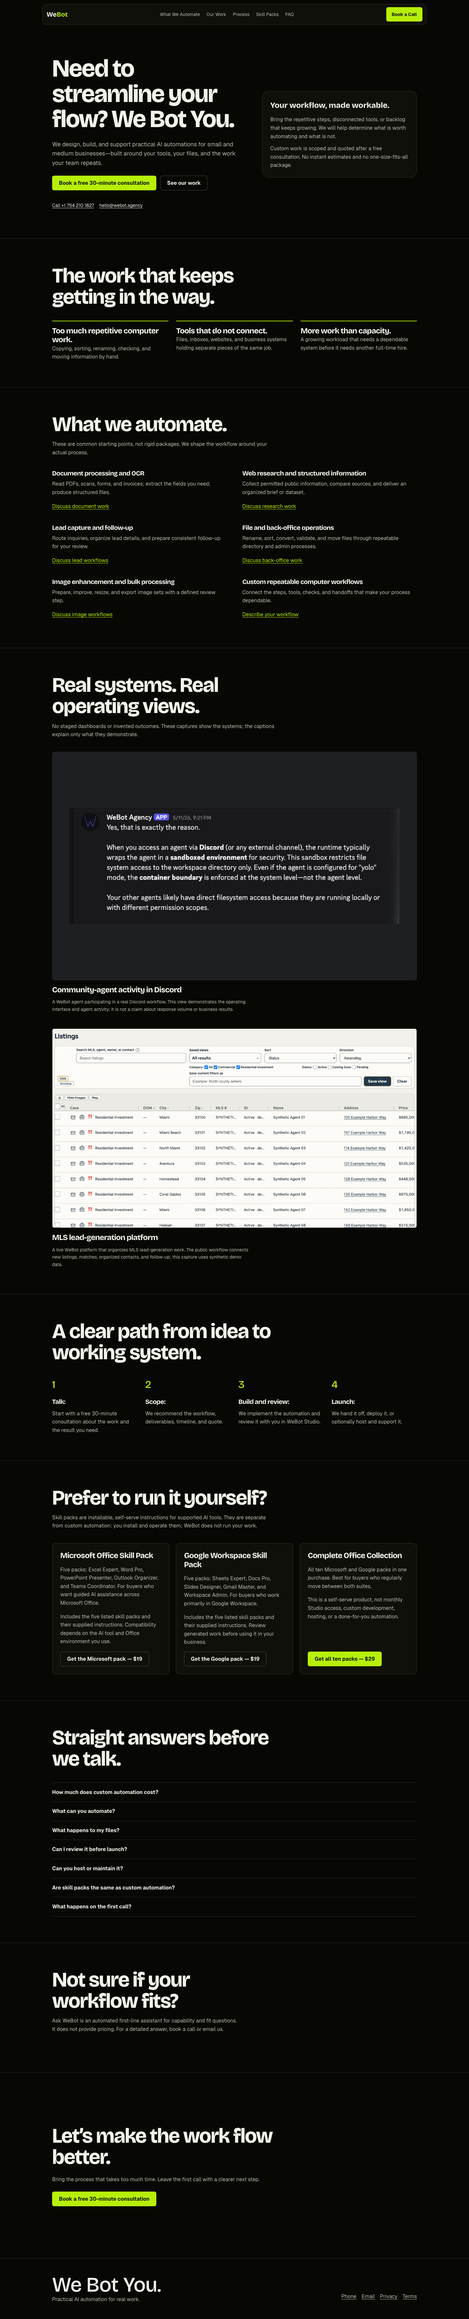
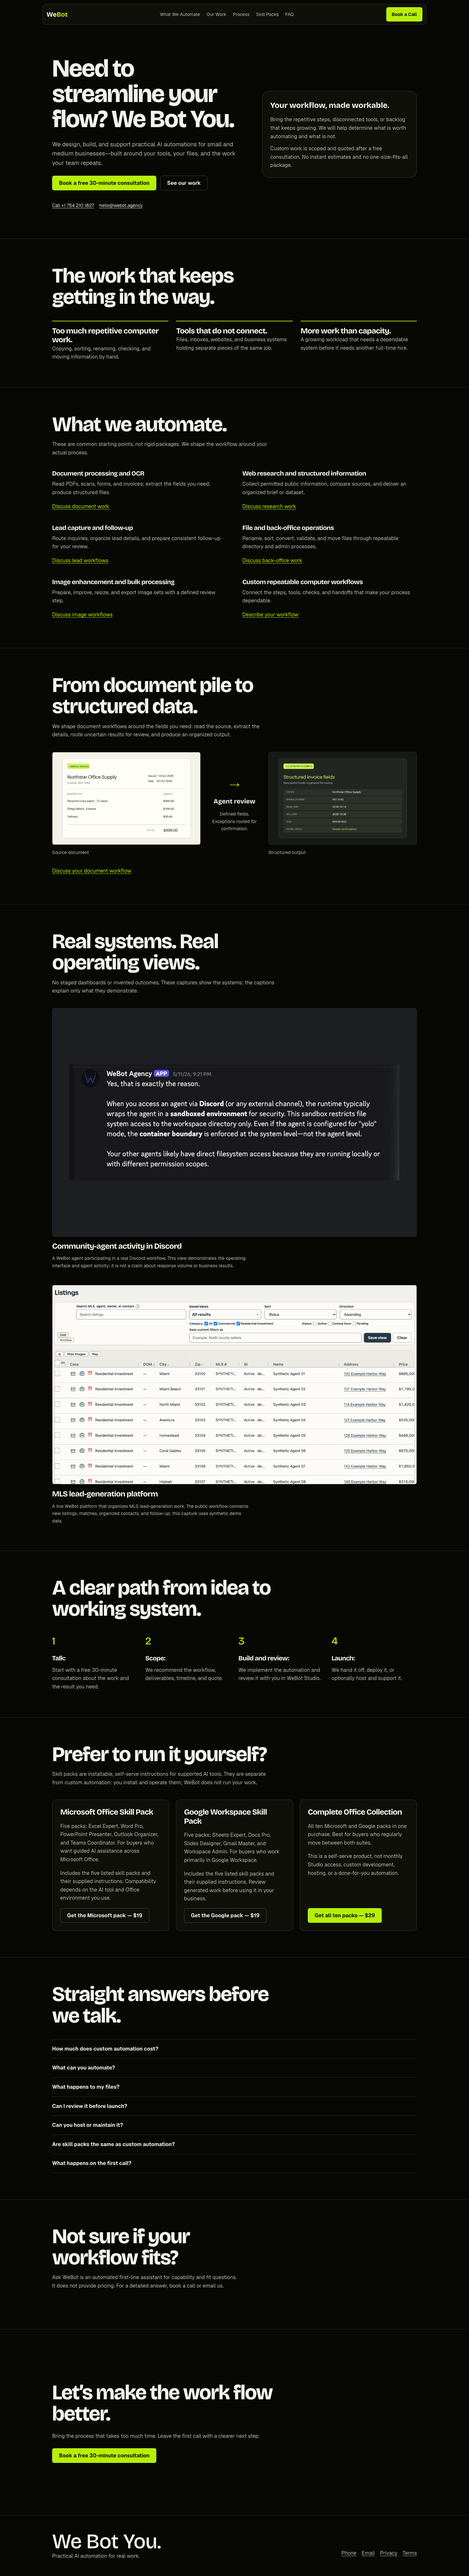
feat: add replaceable OCR workflow showcase

diff --git a/index.html b/index.html
@@ -155,6 +155,31 @@
       </div>
     </section>
 
+    <section class="section" id="ocr-showcase" aria-labelledby="ocr-title">
+      <div class="container">
+        <div class="section-heading">
+          <h2 id="ocr-title">From document pile to structured data.</h2>
+          <p>We shape document workflows around the fields you need: read the source, extract the details, route uncertain results for review, and produce an organized output.</p>
+        </div>
+        <div class="ocr-flow">
+          <figure class="ocr-figure">
+            <img src="/assets/ocr/source-document.png" width="1440" height="900" loading="lazy" alt="Invoice document prepared for OCR processing.">
+            <figcaption>Source document</figcaption>
+          </figure>
+          <div class="ocr-review" aria-label="Agent review step">
+            <span aria-hidden="true">→</span>
+            <strong>Agent review</strong>
+            <p>Defined fields. Exceptions routed for confirmation.</p>
+          </div>
+          <figure class="ocr-figure">
+            <img src="/assets/ocr/structured-output.png" width="1440" height="900" loading="lazy" alt="Structured fields extracted from an invoice.">
+            <figcaption>Structured output</figcaption>
+          </figure>
+        </div>
+        <a class="text-link" href="/consultation.html">Discuss your document workflow</a>
+      </div>
+    </section>
+
     <section class="section" id="work" aria-labelledby="work-title">
       <div class="container">
         <div class="section-heading">

diff --git a/css/site.css b/css/site.css
@@ -158,3 +158,18 @@ ul, ol { margin: 0; padding: 0; }
   *, *::before, *::after { animation-duration: 0.01ms !important; animation-iteration-count: 1 !important; transition-duration: 150ms !important; }
   .button:hover, .button:active { transform: none; }
 }
+
+.ocr-flow { display: grid; grid-template-columns: minmax(0, 1fr) minmax(160px, 0.32fr) minmax(0, 1fr); gap: var(--space-6); align-items: center; margin-bottom: var(--space-6); }
+.ocr-figure { min-width: 0; margin: 0; }
+.ocr-figure img { display: block; width: 100%; height: auto; aspect-ratio: 8 / 5; object-fit: cover; border: var(--rule); border-radius: var(--radius-sm); }
+.ocr-figure figcaption { padding-top: var(--space-3); color: var(--color-ink-soft); font-size: var(--text-sm); }
+.ocr-review { min-width: 0; text-align: center; }
+.ocr-review > span { display: block; color: var(--color-accent); font-size: var(--text-3xl); }
+.ocr-review strong { display: block; margin-block: var(--space-3); font-family: var(--font-display); font-size: var(--text-xl); }
+.ocr-review p { color: var(--color-ink-soft); font-size: var(--text-sm); }
+.text-link { display: inline-flex; align-items: center; min-height: 44px; color: var(--color-accent); }
+@media (max-width: 767px) {
+  .ocr-flow { grid-template-columns: minmax(0, 1fr); gap: var(--space-5); }
+  .ocr-review { text-align: left; }
+  .ocr-review > span { transform: rotate(90deg); transform-origin: left center; width: var(--space-8); }
+}

diff --git a/scripts/generate-ocr-artwork.py b/scripts/generate-ocr-artwork.py
@@ -1,0 +1,74 @@
+from pathlib import Path
+from PIL import Image, ImageDraw, ImageFont
+
+ROOT = Path(__file__).resolve().parents[1]
+OUT = ROOT / "assets" / "ocr"
+W, H = 1440, 900
+CARBON = "#171915"
+INK = "#232620"
+PAPER = "#f4f1e8"
+MUTED = "#6b7067"
+LIME = "#c8f55a"
+WHITE = "#fffdf7"
+
+
+def font(size):
+    return ImageFont.load_default(size=size)
+
+
+def label(draw, xy, text, fill=INK, size=28):
+    draw.text(xy, text, font=font(size), fill=fill)
+
+
+def save(image, name):
+    OUT.mkdir(parents=True, exist_ok=True)
+    image.save(OUT / name, format="PNG", optimize=True)
+
+
+def source_document():
+    image = Image.new("RGB", (W, H), PAPER)
+    draw = ImageDraw.Draw(image)
+    draw.rounded_rectangle((96, 64, 1344, 836), radius=24, fill=WHITE, outline="#d8d5cc", width=2)
+    draw.rounded_rectangle((144, 112, 356, 164), radius=12, fill=LIME)
+    label(draw, (168, 125), "SAMPLE INVOICE", size=24)
+    label(draw, (144, 214), "Northstar Office Supply", size=46)
+    label(draw, (144, 282), "Invoice  INV-1042", MUTED, 28)
+    label(draw, (930, 214), "Issued  14 Oct 2026", INK, 28)
+    label(draw, (930, 264), "Due     28 Oct 2026", INK, 28)
+    draw.line((144, 354, 1296, 354), fill="#c9c7bf", width=2)
+    label(draw, (144, 394), "DESCRIPTION", MUTED, 22)
+    label(draw, (1080, 394), "AMOUNT", MUTED, 22)
+    rows = [("Recycled copy paper · 12 cases", "$468.00"), ("Filing folders · 8 boxes", "$196.00"), ("Delivery", "$35.00")]
+    y = 458
+    for description, amount in rows:
+        label(draw, (144, y), description, INK, 28)
+        label(draw, (1080, y), amount, INK, 28)
+        y += 76
+    draw.line((144, 704, 1296, 704), fill="#c9c7bf", width=2)
+    label(draw, (920, 746), "TOTAL", MUTED, 24)
+    label(draw, (1080, 738), "$699.00", INK, 38)
+    save(image, "source-document.png")
+
+
+def structured_output():
+    image = Image.new("RGB", (W, H), CARBON)
+    draw = ImageDraw.Draw(image)
+    draw.rounded_rectangle((96, 64, 1344, 836), radius=24, fill=INK, outline="#41463d", width=2)
+    draw.rounded_rectangle((144, 112, 438, 164), radius=12, fill=LIME)
+    label(draw, (168, 125), "ILLUSTRATIVE EXAMPLE", CARBON, 22)
+    label(draw, (144, 214), "Structured invoice fields", LIME, 46)
+    label(draw, (144, 282), "Requested fields organized for review", "#b9beb4", 28)
+    fields = [("vendor", "Northstar Office Supply"), ("invoice_number", "INV-1042"), ("issue_date", "2026-10-14"), ("due_date", "2026-10-28"), ("total", "699.00 USD"), ("review_status", "Needs confirmation")]
+    y = 372
+    for key, value in fields:
+        draw.rounded_rectangle((144, y - 12, 1296, y + 50), radius=10, fill="#2d312a")
+        label(draw, (172, y), key, "#aeb4a8", 24)
+        label(draw, (620, y), value, WHITE if key != "review_status" else LIME, 26)
+        y += 72
+    save(image, "structured-output.png")
+
+
+if __name__ == "__main__":
+    source_document()
+    structured_output()
+    print("Wrote two 1440x900 OCR artwork files")
